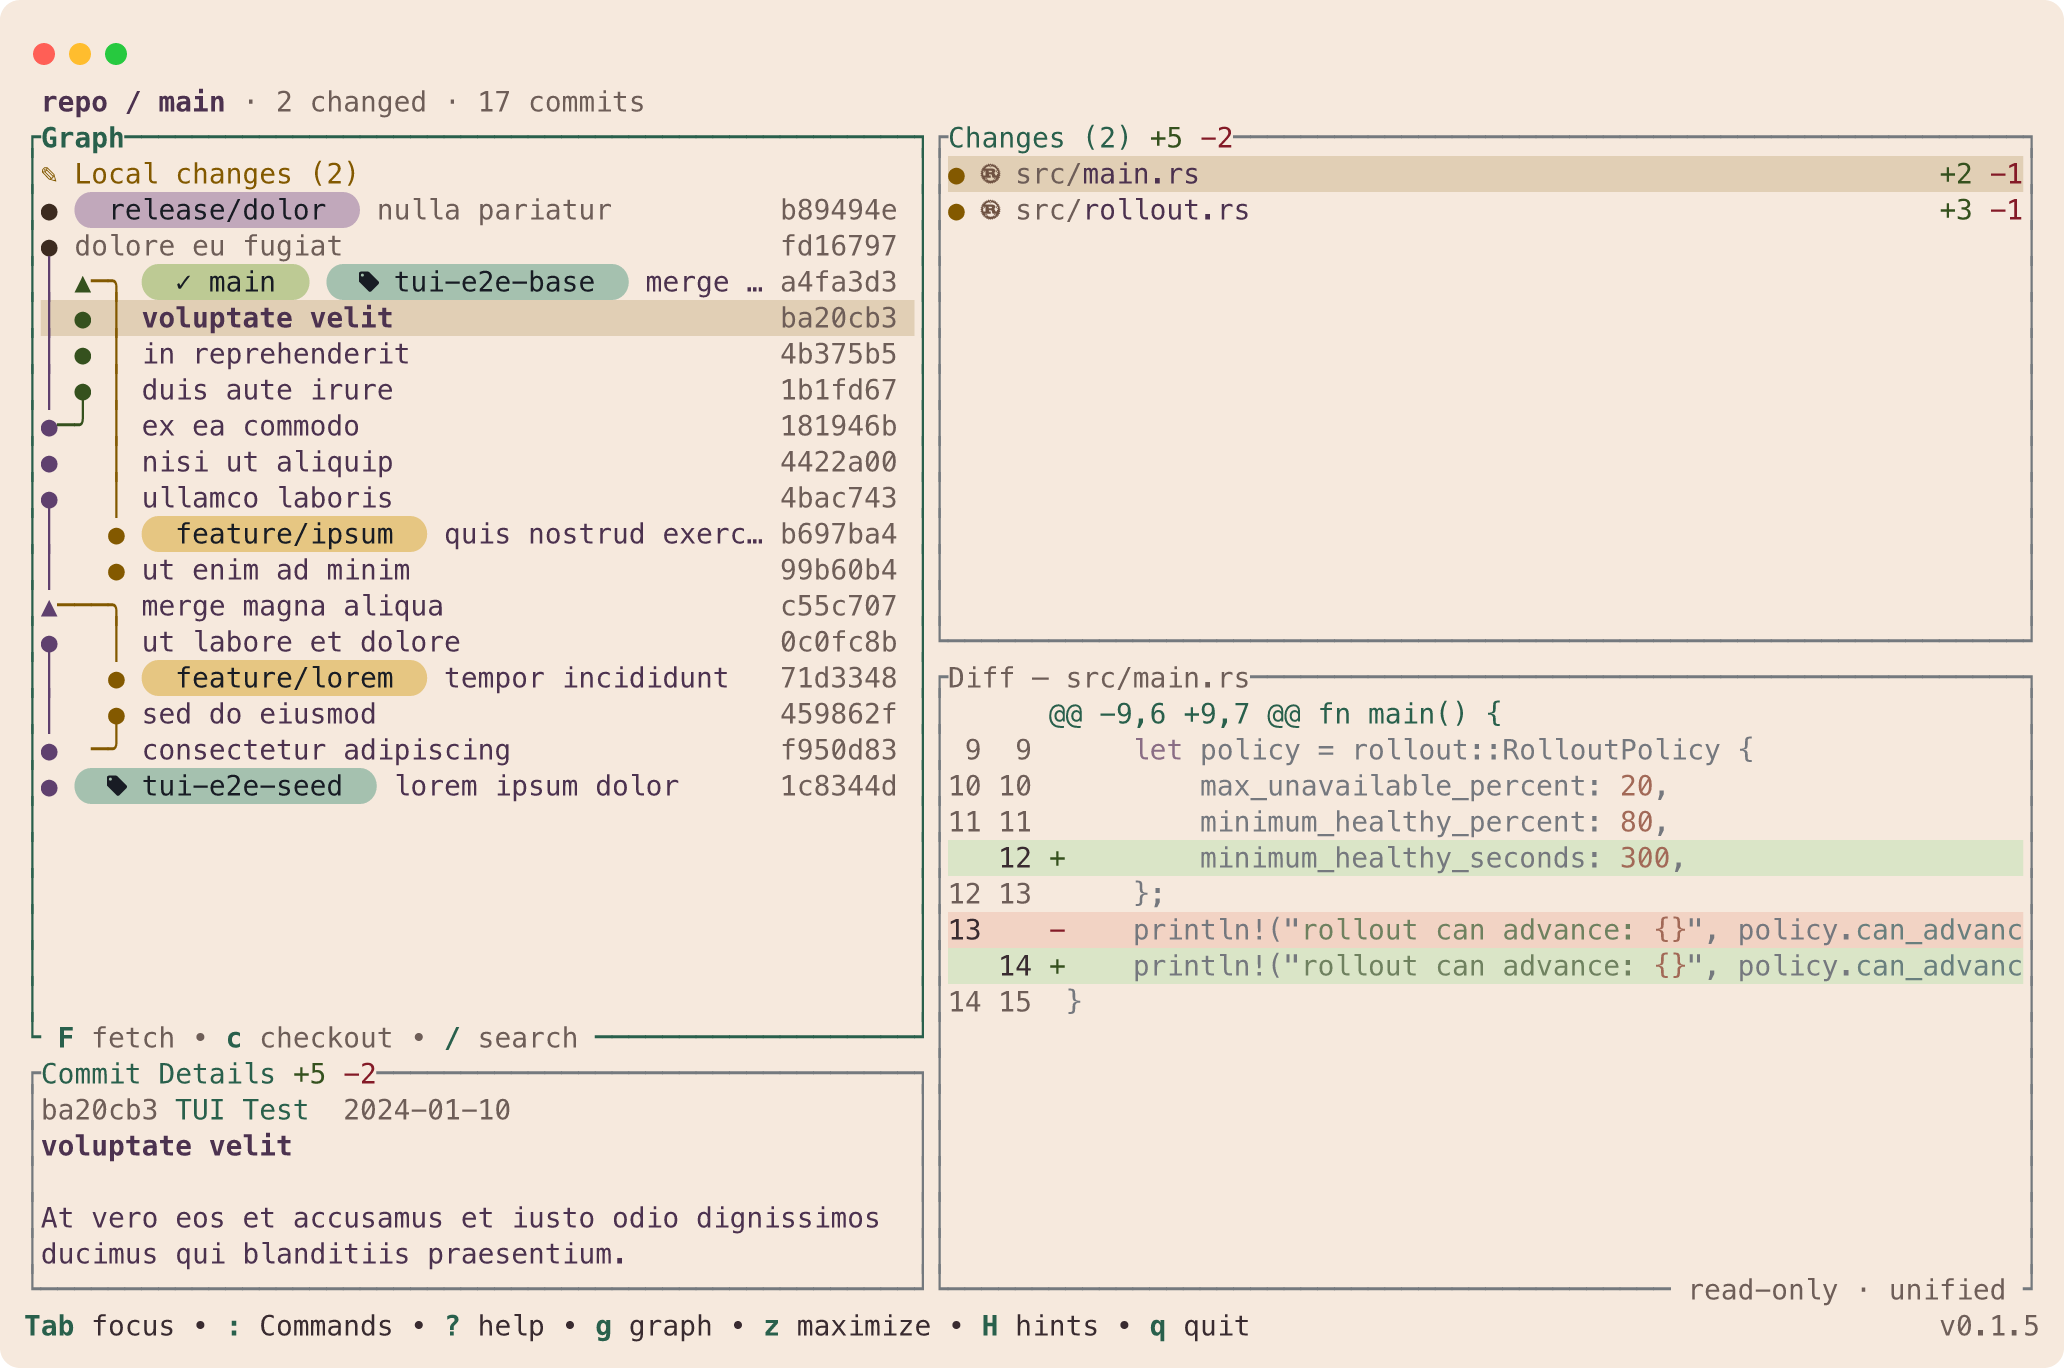
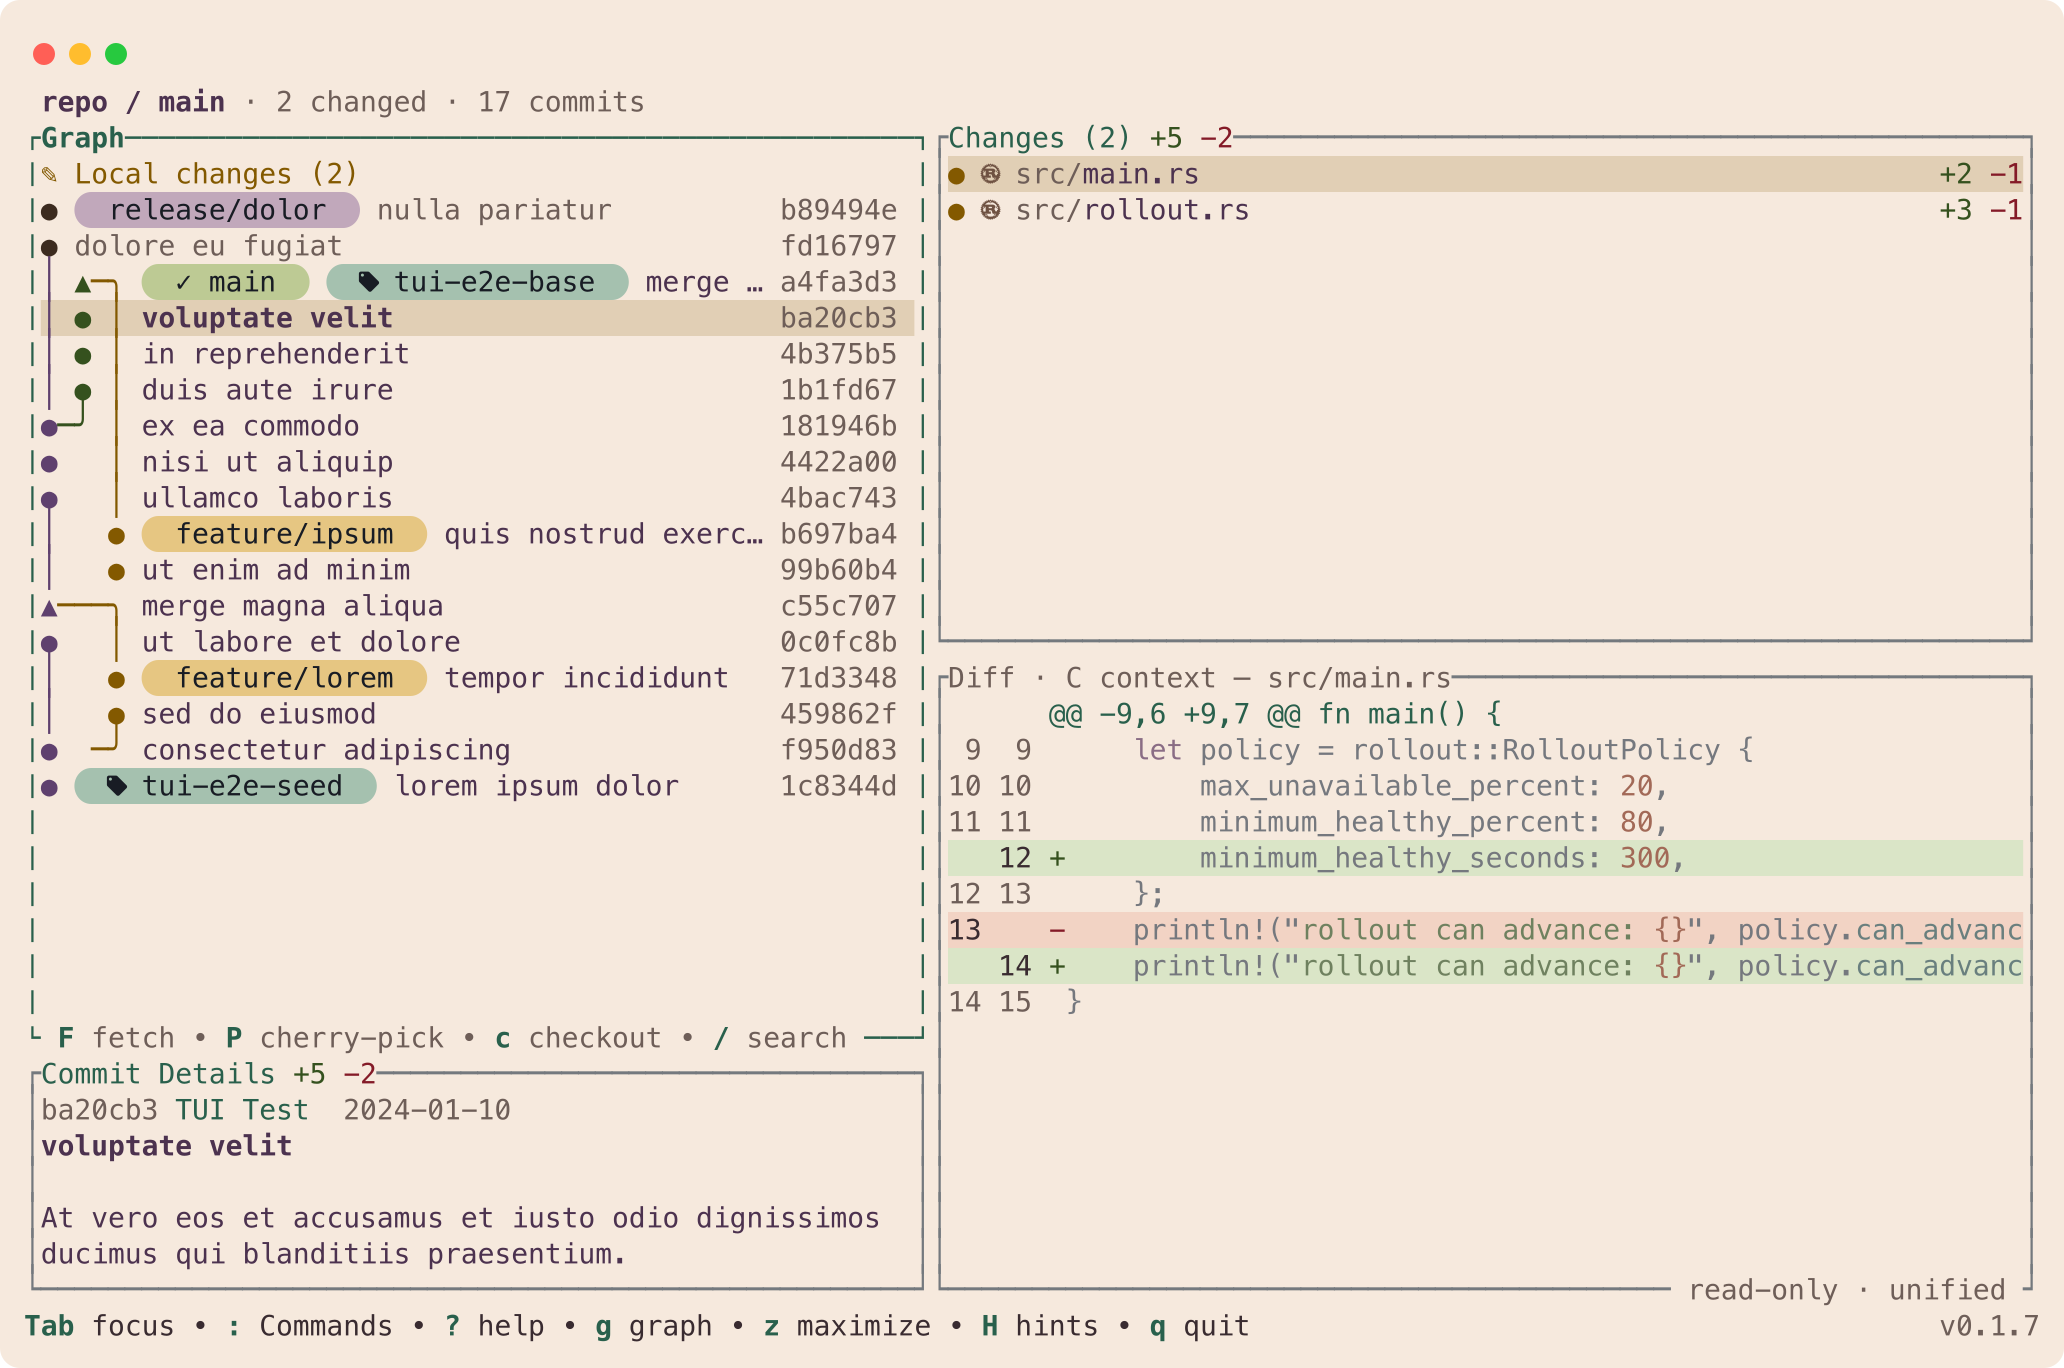
Release Figit 0.1.7

Changed region(s): [[0.155, 0.7368, 0.4341, 0.7675], [0.5271, 0.4912, 0.7132, 0.5219]]

diff --git a/CHANGELOG.md b/CHANGELOG.md
@@ -1,5 +1,24 @@
 # Changelog
 
+## 0.1.7 - 2026-11-20
+
+### Added
+
+- Search commit messages and local or remote branch names. Press `a` after a search to scan all history in the background and jump to a matching commit.
+- Press `f` on an eligible graph commit to preview and autosquash staged changes into it.
+- Use `--plain-icons` or set `figit.plainIcons` for terminals without a Nerd Font.
+
+### Changed
+
+- In the graph, `p` pulls the checked-out branch and `Shift+P` cherry-picks the selected commit.
+- The `u` command is now **Restore from reflog** and previews which branch or commit it will restore.
+
+### Fixed
+
+- Remote branch rename and deletion use the configured upstream ref and protect against concurrent changes. Rename preserves a divergent remote tip, and deletion rollback restores the original remote commit.
+- Preserve loaded history across periodic refreshes so searches can reach older commits.
+- Fall back to a prerelease installer only after GitHub confirms no stable release exists.
+
 ## 0.1.6 - 2026-11-17
 
 ### Added
